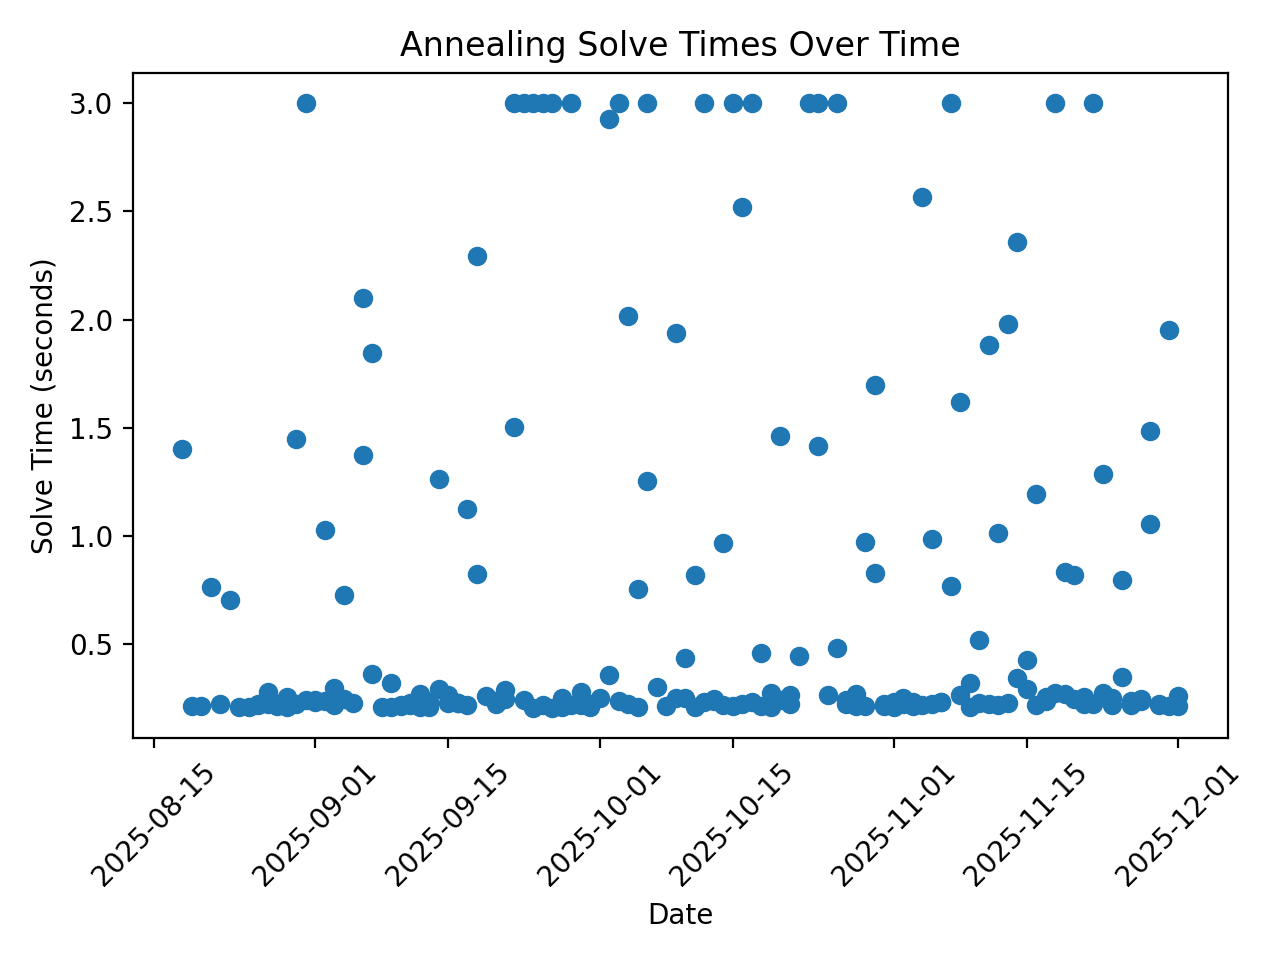
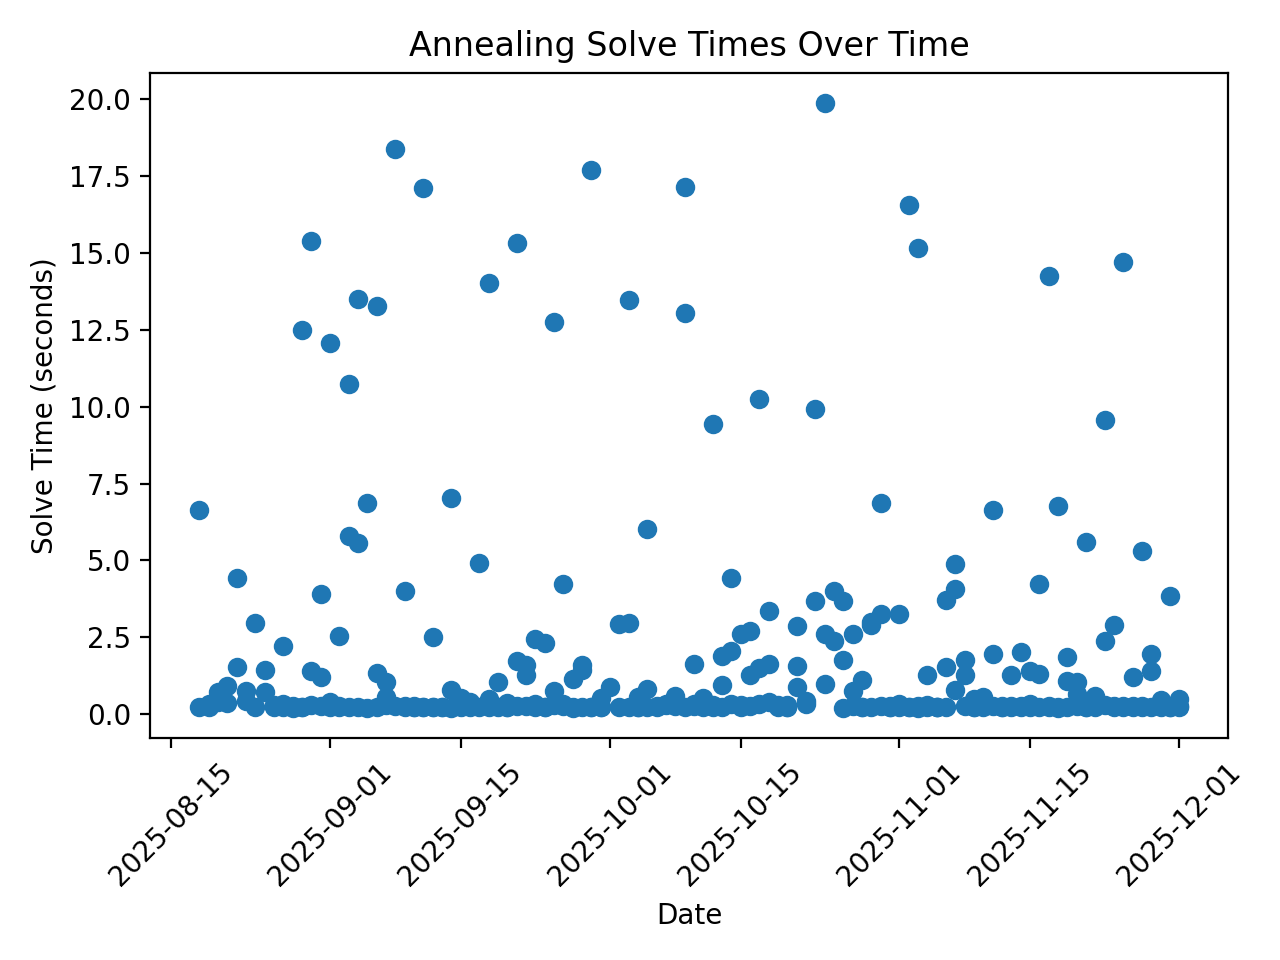
run for hard

diff --git a/eval_time.py b/eval_time.py
@@ -10,6 +10,7 @@ import matplotlib.pyplot as plt
 import numpy as np
 import os
 import multiprocessing as mp
+import random
 
 
 def _solver_worker(solver_fn, puzzle, conn):
@@ -23,7 +24,7 @@ def _solver_worker(solver_fn, puzzle, conn):
         conn.close()
 
 
-def timed_solve(solver_fn, puzzle, timeout=3):
+def timed_solve(solver_fn, puzzle, timeout=60):
     """
     Run solver in a separate process and terminate
     if it exceeds timeout seconds.
@@ -47,7 +48,16 @@ def timed_solve(solver_fn, puzzle, timeout=3):
     p.join()
     return None, timeout
 
-def evaluate_solvers(boards_dir):
+def evaluate_solvers(boards_dir, sample_size=1000):
+
+    # gather all available json boards
+    all_files = list(Path(boards_dir).glob("*.json"))
+    if len(all_files) == 0:
+        print("No boards found.")
+        return None
+
+    # sample 50 random boards (or fewer if we don't have 50)
+    sample = random.sample(all_files, min(sample_size, len(all_files)))
 
     results = {
         "backtracking": {"times": [], "dates": [], "solved": 0},
@@ -57,7 +67,7 @@ def evaluate_solvers(boards_dir):
     failed_backtracking = []
     failed_annealing   = []
 
-    for file in Path(boards_dir).glob("*.json"):
+    for file in sample:
 
         try:
             with open(file, "r") as f:
@@ -74,7 +84,7 @@ def evaluate_solvers(boards_dir):
             continue
 
         # loop through difficulties
-        for difficulty in ["easy", "medium"]:
+        for difficulty in ["easy", "medium", "hard"]:
             if difficulty not in data:
                 continue
 
